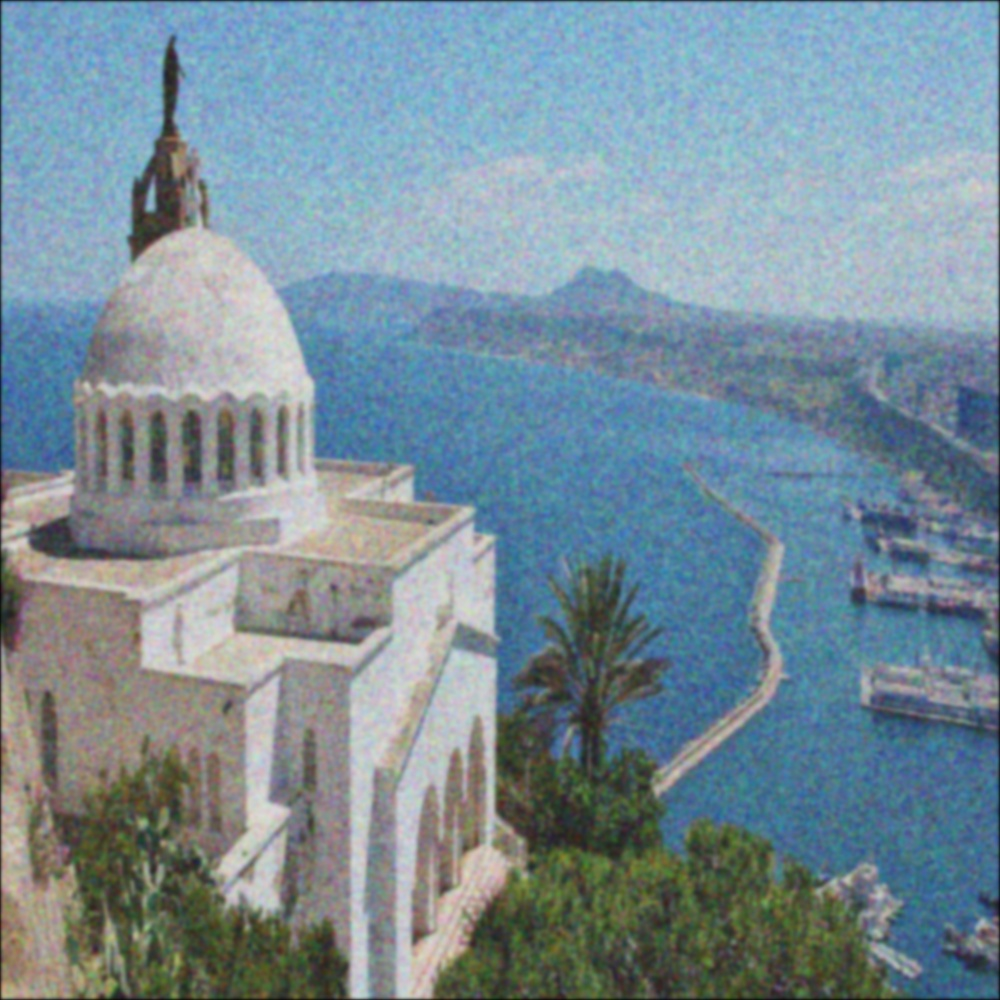
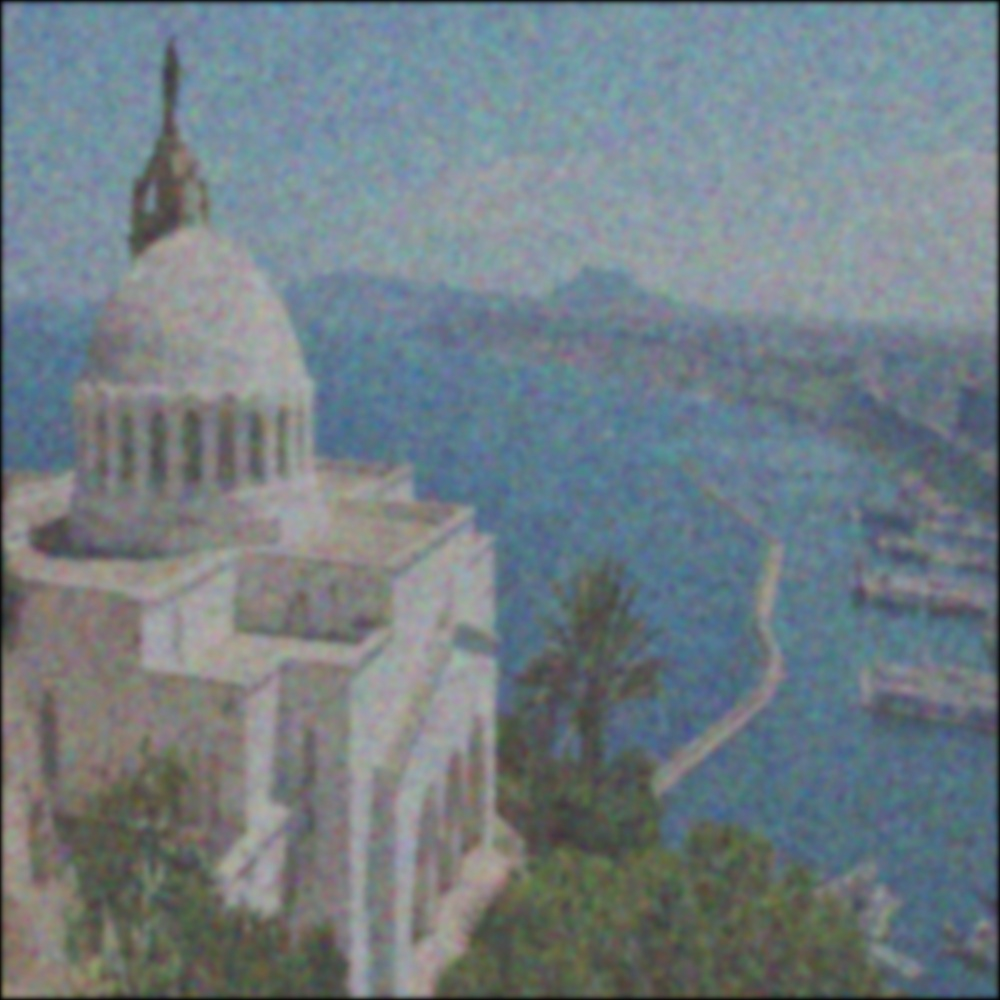
Bot and Top diagonal - image slicer

diff --git a/src/gaussSeidel.cpp b/src/gaussSeidel.cpp
@@ -90,10 +90,66 @@ bool AddGaussSeidel_wave(const Mat m_Src, Mat &m_Dst){
     }
     return true;
 }
-bool AddGaussSeidelLoop(const Mat m_Src, Mat &m_Dst){
-    
+bool Diag_Top(const Mat m_Src_border, Mat &m_Dst_border,int rows,int cols){
+    for(int row = 0; row < rows; row++){
+        for(int col = 0; col < cols - row; col++){
+            for(int chanel = 0; chanel < 3; chanel++){
+                m_Dst_border.at<Vec3b>((row + 1),(col + 1))[chanel] = (m_Dst_border.at<Vec3b>((row + 1) - 1,(col + 1))[chanel] +
+                m_Dst_border.at<Vec3b>((row + 1),(col + 1) - 1)[chanel] + m_Src_border.at<Vec3b>((row + 1) + 1,(col + 1))[chanel] +
+                m_Src_border.at<Vec3b>((row + 1),(col + 1) + 1)[chanel] + m_Src_border.at<Vec3b>((row + 1),(col + 1))[chanel]) / 5;
+            }
+        }
+    }
     return true;
 }
+bool Diag_Bot(const Mat m_Src_border, Mat &m_Dst_border,int rows,int cols){
+    for(int row = 1; row < rows; row++){
+        for(int col = cols - row; col < cols; col++){
+            for(int chanel = 0; chanel < 3; chanel++){
+                m_Dst_border.at<Vec3b>((row + 1),(col + 1))[chanel] = (m_Dst_border.at<Vec3b>((row + 1) - 1,(col + 1))[chanel] +
+                m_Dst_border.at<Vec3b>((row + 1),(col + 1) - 1)[chanel] + m_Src_border.at<Vec3b>((row + 1) + 1,(col + 1))[chanel] +
+                m_Src_border.at<Vec3b>((row + 1),(col + 1) + 1)[chanel] + m_Src_border.at<Vec3b>((row + 1),(col + 1))[chanel]) / 5;
+            }
+        }
+    }
+    return true;
+}
+bool AddGaussSeidelLoop(const Mat m_Src, Mat &m_Dst){
+
+    // Variables Declaration
+    int rows = m_Src.rows, cols = m_Src.cols;
+    Mat m_Src_border(m_Src.rows + 1,m_Src.cols + 1,m_Src.type());
+    Mat m_Dst_border(m_Src.rows + 1,m_Src.cols + 1,m_Src.type());
+
+    int border_type = BORDER_REPLICATE;
+    int size_border = 1;
+
+    // Verify if the source image is empty
+    if(m_Src.empty())
+    {
+        cout<<"[Error]! Input Image Empty!";
+        return 0;
+    }
+    
+    // Add a border of zeros to the source matrix
+    copyMakeBorder(m_Src,m_Src_border,size_border,size_border,size_border,size_border,border_type,0);
+    copyMakeBorder(m_Dst,m_Dst_border,size_border,size_border,size_border,size_border,border_type,0);
+
+    Diag_Top(m_Src_border,m_Dst_border,rows,cols);
+    Diag_Bot(m_Src_border,m_Dst_border,rows,cols);
+
+    // Copy region of interest(without borders) into the Dst image
+    for(int i = 1; i <= rows; ++i){
+        for(int j = 1; j <= cols; ++j){
+            // calculate the value of a pixel for each channel following the gaussSeidel method
+            for(int chanel = 0; chanel < 3; chanel++){
+                    m_Dst.at<Vec3b>(i - 1,j - 1)[chanel] = m_Dst_border.at<Vec3b>(i,j)[chanel];
+            }
+        }
+    }
+    return true;
+}
+
 // parallel version (...)
 bool AddGaussSeidel_wave_task(const Mat m_Src, Mat &m_Dst){
     // Déclaration des variables

diff --git a/src/opencv_simple.cpp b/src/opencv_simple.cpp
@@ -7,8 +7,8 @@
 using namespace cv;
 using namespace std;
 
-#define NOISE_ITER 5
-#define BLUR_ITER 10
+#define NOISE_ITER 15
+#define BLUR_ITER 30
 
 int main(int argc, char** argv)
 {
@@ -55,7 +55,7 @@ int main(int argc, char** argv)
     //Gauss Seidel Wave
     mTmp = mColorNoise.clone();
     for(int i = 0; i < BLUR_ITER; ++i){
-        AddGaussSeidel_wave(mTmp,mGaussSeidelWave);
+        AddGaussSeidelLoop(mTmp,mGaussSeidelWave);
         mTmp = mGaussSeidelWave;
     }
 
@@ -65,8 +65,6 @@ int main(int argc, char** argv)
         AddJacobi(mTmp,mJacobi);
         mTmp = mJacobi;
     }
-    
-    
     // AddGaussianNoise_Opencv(img,mColorNoise,10,30.0);//I recommend to use this way!
 
    uint8_t* pixelPtr = (uint8_t*)img.data;

diff --git a/src/jacobi.cpp b/src/jacobi.cpp
@@ -22,7 +22,7 @@ bool AddJacobi(const Mat m_Src, Mat &m_Dst)
         for(int col = 1; col <= m_Src.cols; ++col){
             // calculate the value of a pixel for each channel following the gaussSeidel method
             for(int chanel = 0; chanel < 3; chanel++){
-                
+
                 m_Dst.at<Vec3b>(row - 1,col - 1)[chanel] = (m_Src_border.at<Vec3b>(row - 1,col)[chanel] +
                 m_Src_border.at<Vec3b>(row,col - 1)[chanel] + m_Src_border.at<Vec3b>(row + 1,col)[chanel] +
                 m_Src_border.at<Vec3b>(row,col + 1)[chanel] + m_Src_border.at<Vec3b>(row,col)[chanel]) / 5;

diff --git a/src/gaussSeidel.h b/src/gaussSeidel.h
@@ -15,4 +15,6 @@ bool AddGaussSeidel(const Mat m_Src, Mat &m_Dst);
 bool AddGaussSeidel_wave(const Mat m_Src, Mat &m_Dst);
 bool AddGaussSeidel_wave_task(const Mat m_Src, Mat &m_Dst);
 bool AddGaussSeidelLoop(const Mat m_Src, Mat &m_Dst);
+bool Diag_Bot(const Mat m_Src_border, Mat &m_Dst_border,int rows,int cols);
+bool Diag_Top(const Mat m_Src_border, Mat &m_Dst_border,int rows,int cols);
 #endif
